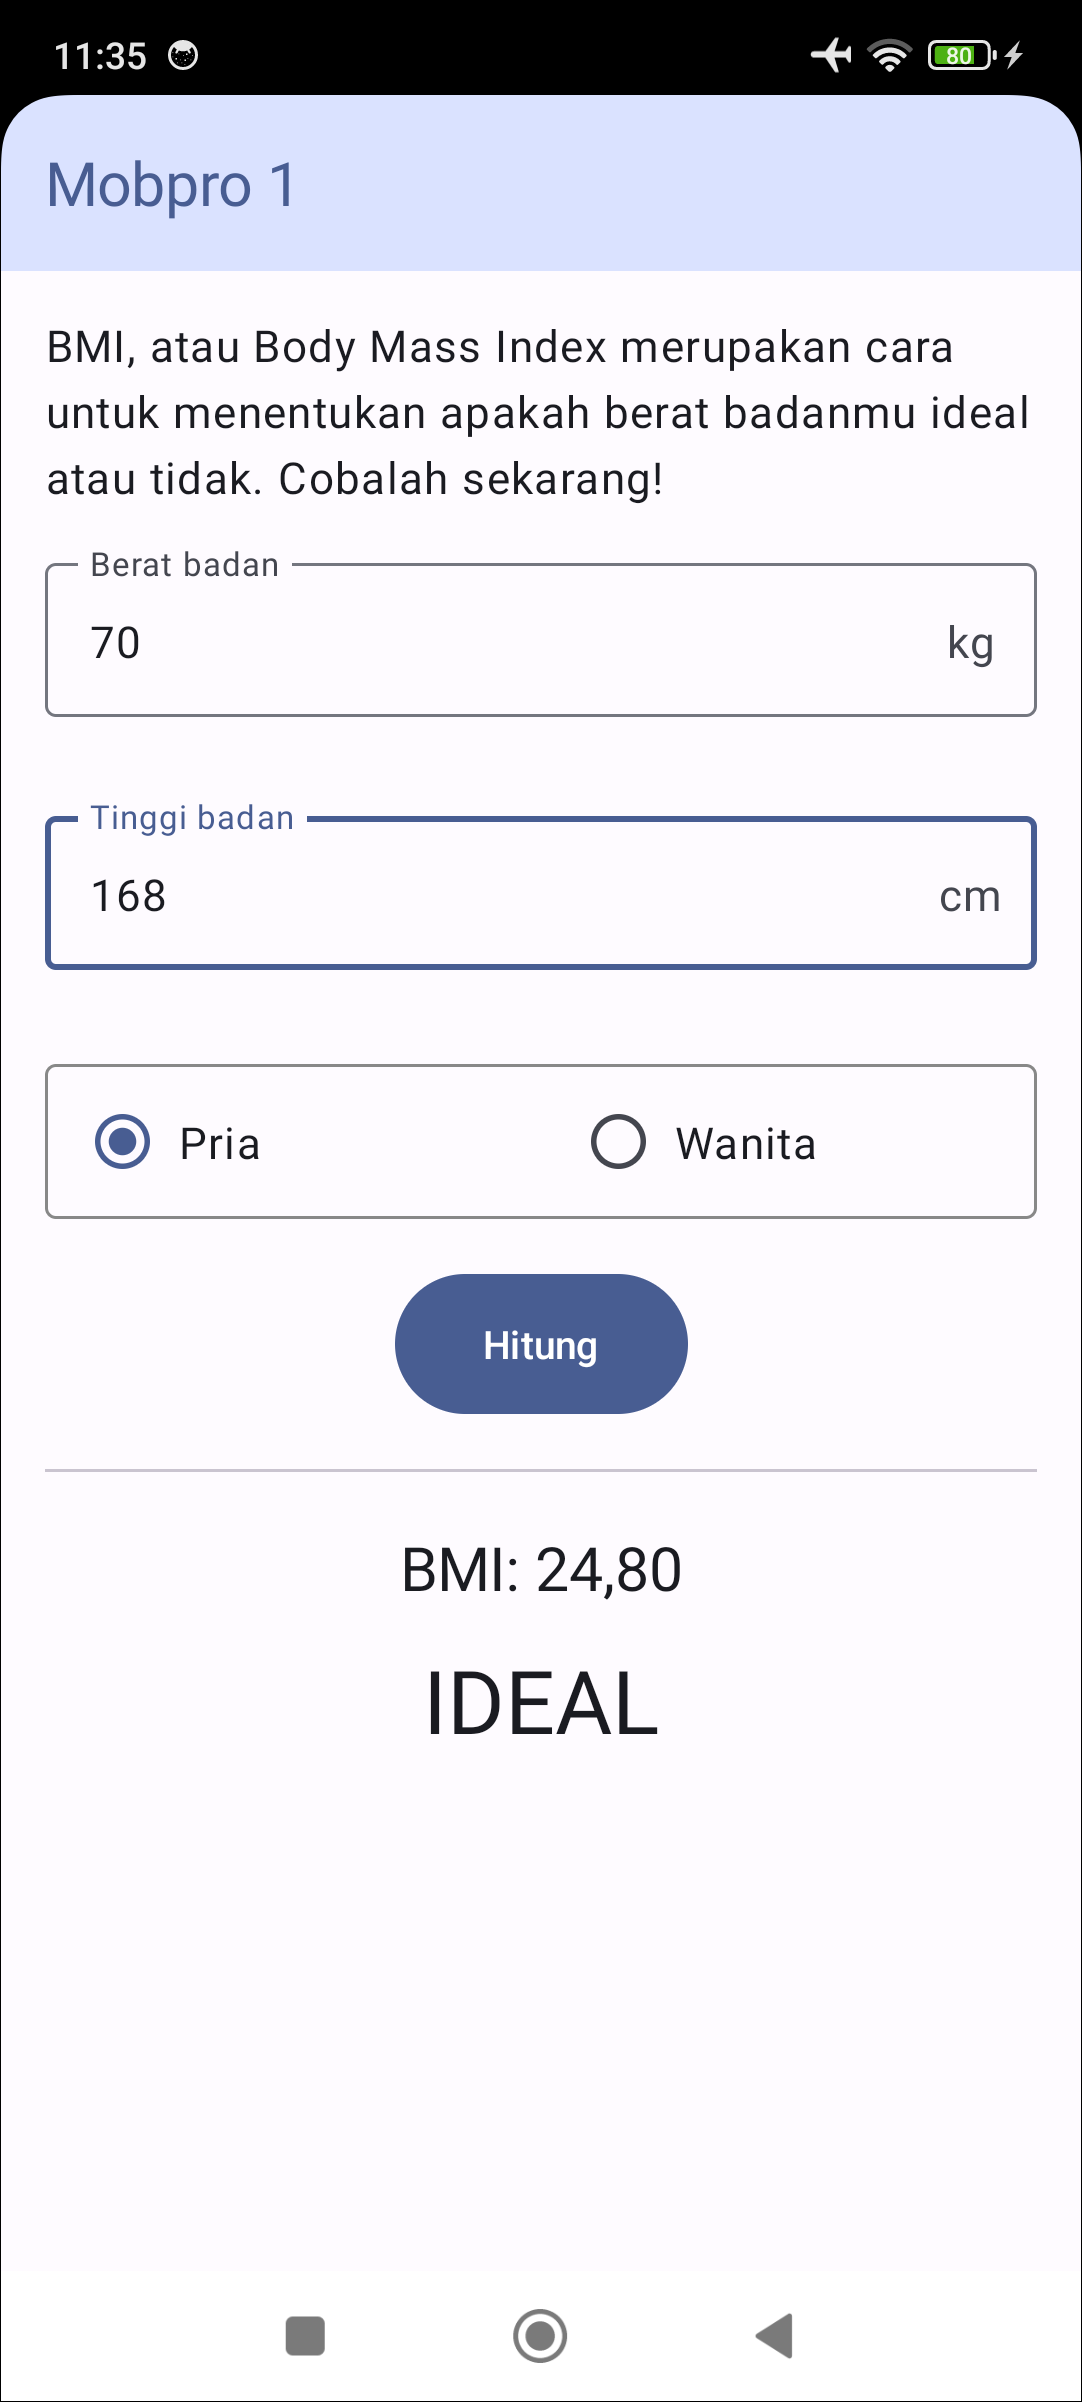
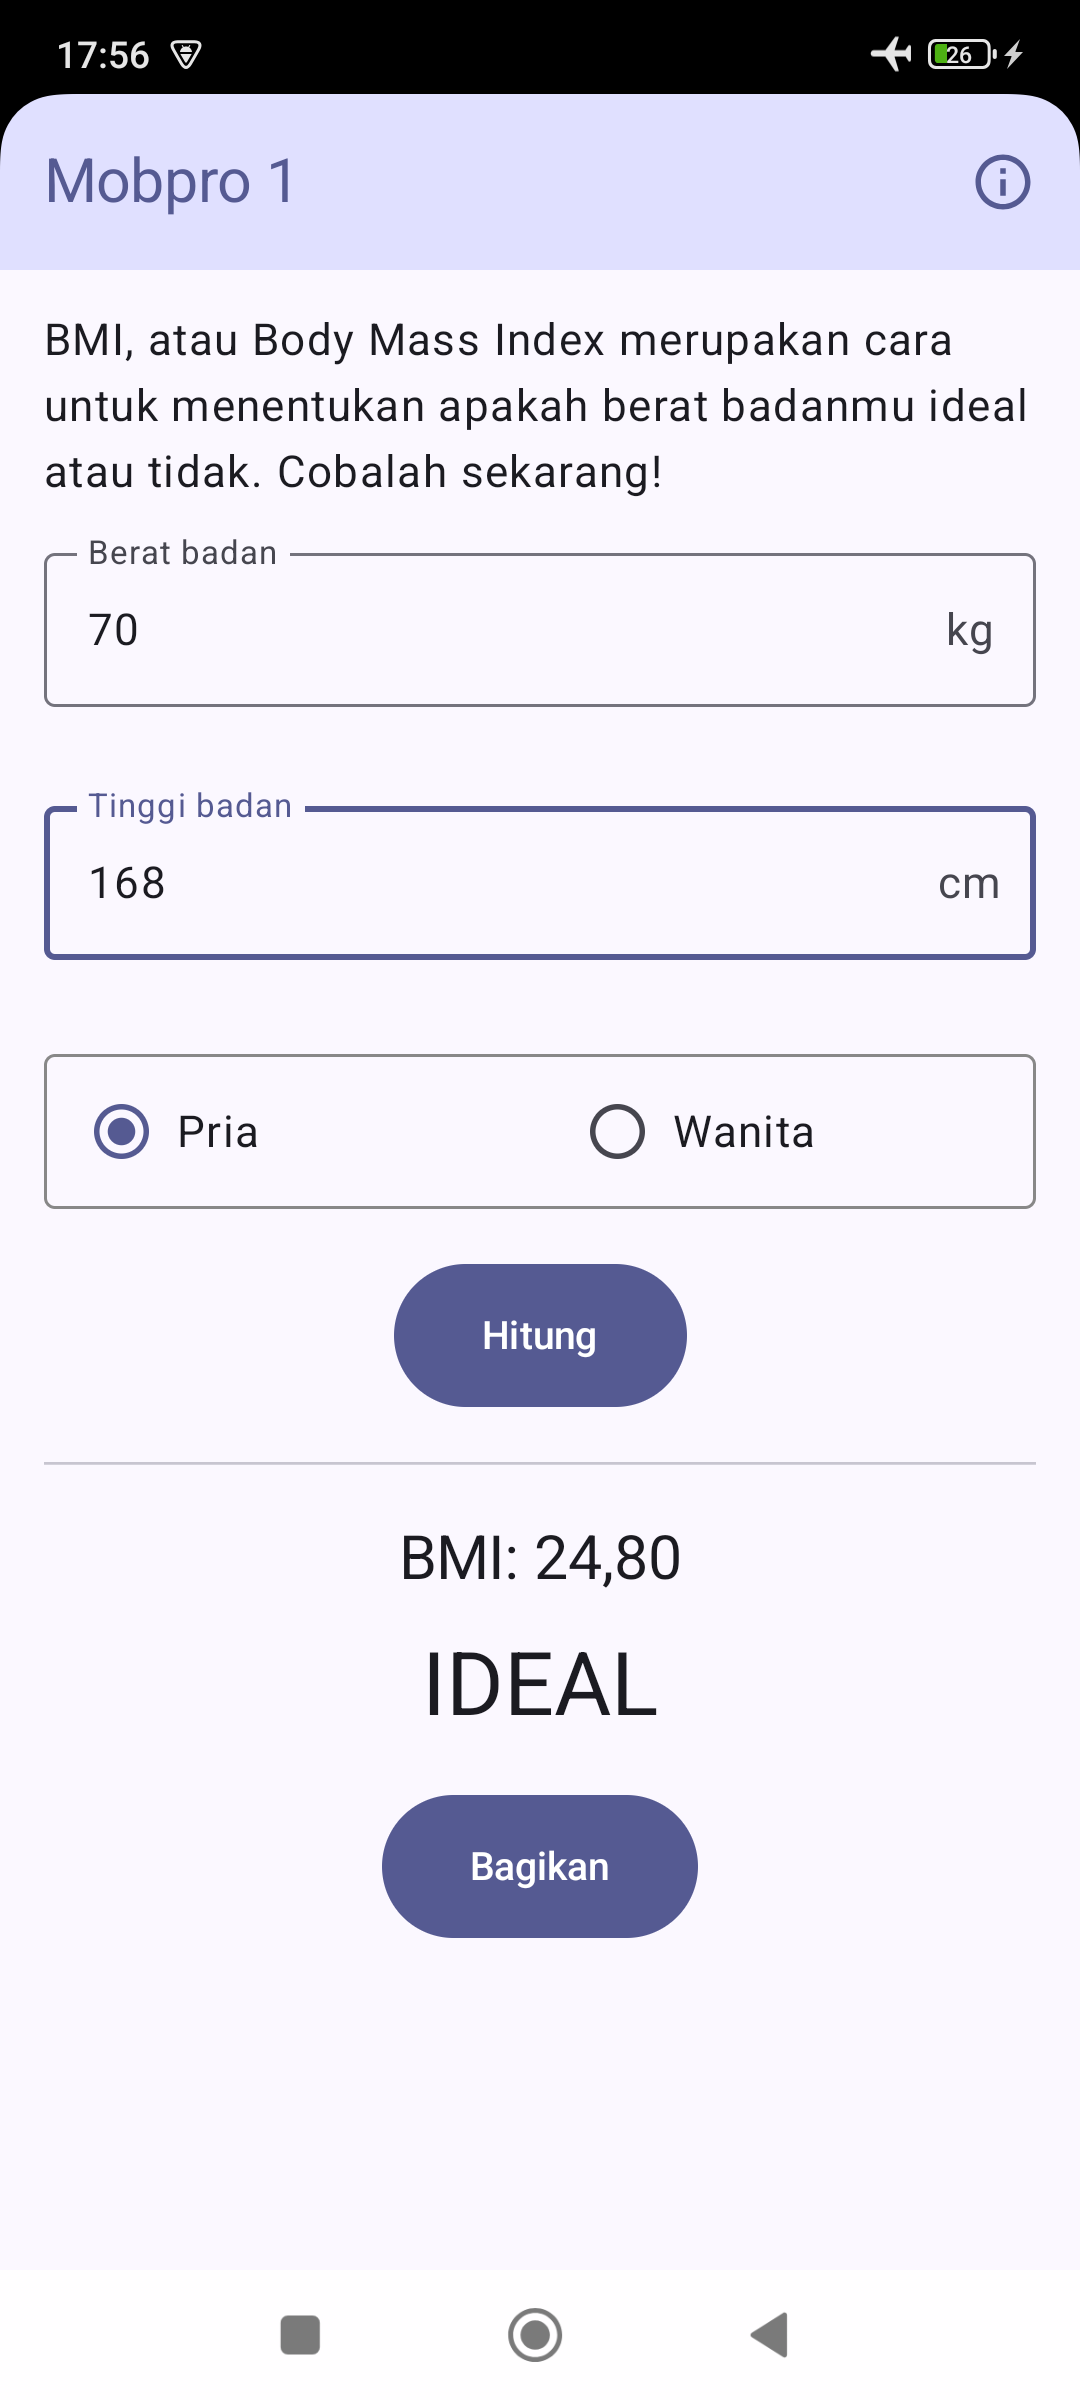
Update readme

diff --git a/README.md b/README.md
@@ -1,14 +1,16 @@
 # Hitung BMI
 
-Aplikasi Android untuk menghitung body mass index (BMI) sehingga pengguna dapat mengetahui apakah berat badannya ideal, gemuk atau kurus.
+Aplikasi Android untuk menghitung body mass index (BMI) sehingga pengguna dapat mengetahui apakah berat badannya ideal, gemuk atau kurus. Di sini kita menambahkan tampilan about sehingga pengguna dapat berpindah dari tampilan utama ke tampilan berikutnya menggunakan menu. Kita juga menambahkan tombol bagikan sehingga pengguna dapat berbagi data ke aplikasi lain.
 
-<img src="screenshots/main.png" alt="Tampilan utama" width="250">
+| Tampilan Utama                               | Tampilan About                                |
+|----------------------------------------------|-----------------------------------------------|
+| <img src="screenshots/main.png" width="200"> | <img src="screenshots/about.png" width="200"> |
 
 Di modul ini kita belajar:
-- meminta input data dari pengguna
-- memproses data dari pengguna tanpa error
-- memberi feedback jika input tidak sesuai harapan
-- membuat tampilan yang bisa di-scroll di HP layar kecil
+- membuat aplikasi multi-screen
+- membuat menu di TopAppBar
+- membuat tombol Up di screen kedua
+- bernavigasi ke aplikasi lain dengan Intent
 
 Punya pertanyaan atau masukan? Silahkan disampaikan melalui issue repository.
 
